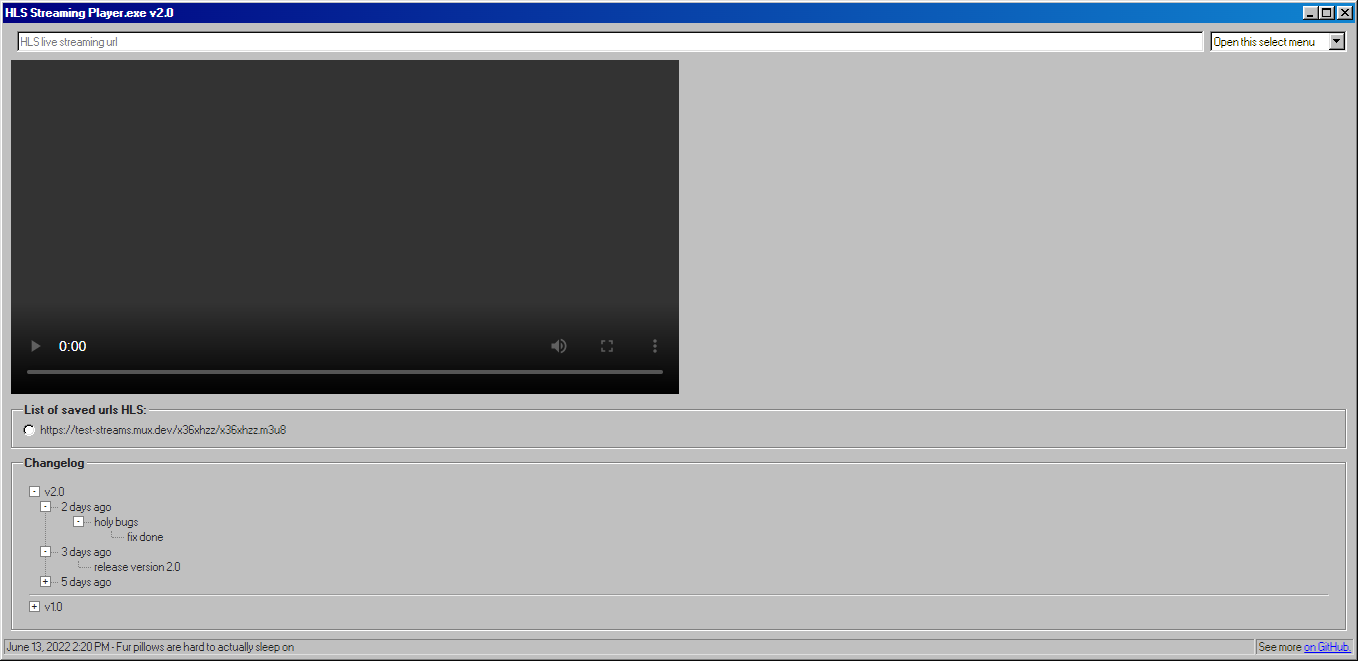
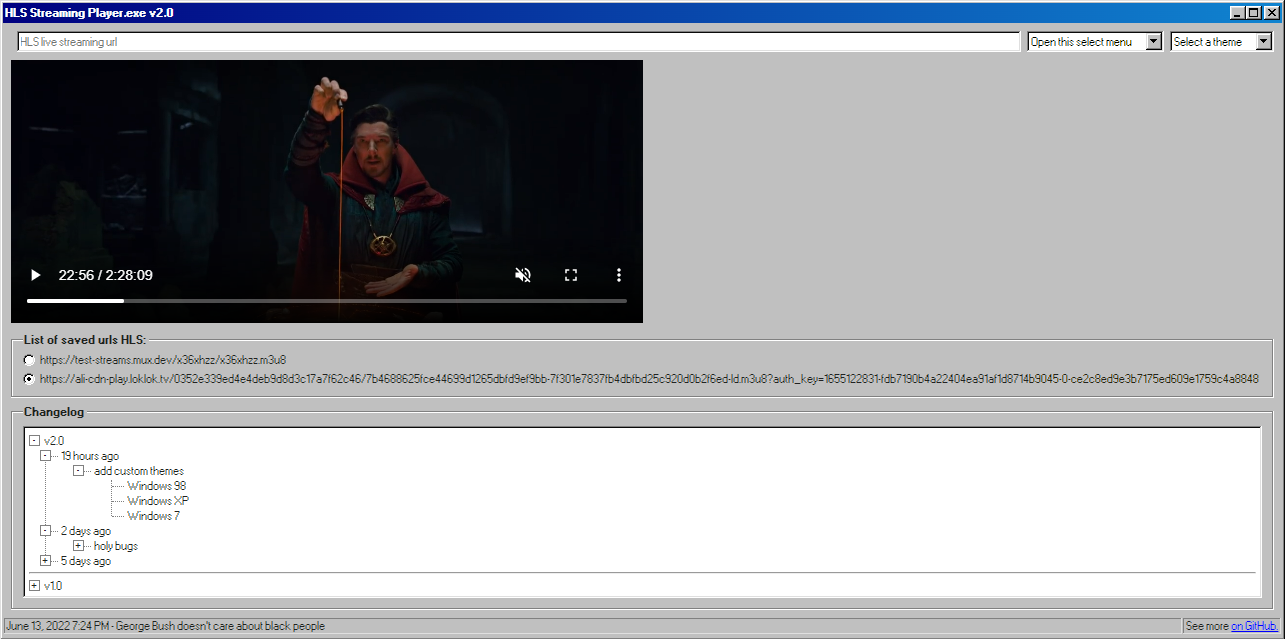
.

diff --git a/js/main.min.js b/js/main.min.js
@@ -1,1 +1,1 @@
-class Main{constructor(){this.default={localStorage:{array:[],key:"HLS url",value:"https://test-streams.mux.dev/x36xhzz/x36xhzz.m3u8"},quote:{KanyeWest:["2024","All you have to be is yourself","Believe in your flyness...conquer your shyness.","Burn that excel spread sheet","Decentralize","Distraction is the enemy of vision","Everything you do in life stems from either fear or love","For me giving up is way harder than trying.","For me, money is not my definition of success. Inspiring people is a definition of success","Fur pillows are hard to actually sleep on","George Bush doesn't care about black people","Have you ever thought you were in love with someone but then realized you were just staring in a mirror for 20 minutes?","I care. I care about everything. Sometimes not giving a f#%k is caring the most.","I feel calm but energized","I feel like I'm too busy writing history to read it.","I feel like me and Taylor might still have sex","I give up drinking every week","I leave my emojis bart Simpson color","I love sleep; it's my favorite.","I make awesome decisions in bike stores!!!","I really love my Tesla. I'm in the future. Thank you Elon.","I still think I am the greatest.","I think I do myself a disservice by comparing myself to Steve Jobs and Walt Disney and human beings that we've seen before. It should be more like Willy Wonka...and welcome to my chocolate factory.","I want the world to be better! All I want is positive! All I want is dopeness!","I wish I had a friend like me","I'd like to meet with Tim Cook. I got some ideas","I'll say things that are serious and put them in a joke form so people can enjoy them. We laugh to keep from crying.","I'm a creative genius","I'm nice at ping pong","I'm the best","If I don't scream, if I don't say something then no one's going to say anything.","If I got any cooler I would freeze to death","If you have the opportunity to play this game of life you need to appreciate every moment. a lot of people don't appreciate the moment until it's passed.","Just stop lying about shit. Just stop lying.","Keep squares out yo circle","Keep your nose out the sky, keep your heart to god, and keep your face to the rising sun.","Let's be like water","Man... whatever happened to my antique fish tank?","My dad got me a drone for Christmas","My greatest award is what I'm about to do.","My greatest pain in life is that I will never be able to see myself perform live.","One day I'm gon' marry a porn star","One of my favorite of many things about what the Trump hat represents to me is that people can't tell me what to do because I'm black","Only free thinkers","People always say that you can't please everybody. I think that's a cop-out. Why not attempt it? Cause think of all the people that you will please if you try.","People always tell you 'Be humble. Be humble.' When was the last time someone told you to be amazing? Be great! Be awesome! Be awesome!","People only get jealous when they care.","Perhaps I should have been more like water today","Pulling up in the may bike","Shut the fuck up I will fucking laser you with alien fucking eyes and explode your fucking head","Sometimes I push the door close button on people running towards the elevator. I just need my own elevator sometimes. My sanctuary.","Sometimes you have to get rid of everything","Style is genderless","The thought police want to suppress freedom of thought","The world is our family","The world is our office","Today is the best day ever and tomorrow's going to be even better","Truth is my goal. Controversy is my gym. I'll do a hundred reps of controversy for a 6 pack of truth","Tweeting is legal and also therapeutic","We all self-conscious. I'm just the first to admit it.","We came into a broken world. And we're the cleanup crew.","You can't look at a glass half full or empty if it's overflowing.","I hate when I'm on a flight and I wake up with a water bottle next to me like oh great now I gotta be responsible for this water bottle","All the musicians will be free","Artists are founders","Buy property","Culture is the most powerful force in humanity under God","Empathy is the glue","I am one of the most famous people on the planet","I am running for President of the United States","I am the head of Adidas. I will bring Adidas and Puma back together and bring me and jay back together","I am Warhol. I am the No. 1 most impactful artist of our generation. I am Shakespeare in the flesh.","I channel Will Ferrell when I'm at the daddy daughter dances","I don't wanna see no woke tweets or hear no woke raps ... it's show time ... it's a whole different energy right now","I hear people say this person is cool and this person is not cool. People are cool. Man has never invented anything as awesome as a an actual person but sometimes we value the objects we create over life itself","I honestly need all my Royeres to be museum quality... if I see a fake Royere Ima have to Rick James your couch","I love UZI. I be saying the same thing about Steve Jobs. I be feeling just like UZI","I need an army of angels to cover me while I pull this sword out of the stone","I spoke to Dave Chapelle for two hours this morning. He is our modern day Socrates","I was just speaking with someone that told me their life story and they used to be homeless.","I watch Bladerunner on repeat","I'm giving all Good music artists back the 50% share I have of their masters","I'm going to personally see to it that Taylor Swift gets her masters back. Scooter is a close family friend","I'm the new Moses","Life is the ultimate gift","Ma$e is one of my favorite rappers and I based a lot of my flows off of him","Manga all day","My first pillar when I'm on the board of adidas will be an adidas Nike collaboration to support community growth","My mama was a' English teacher. I know how to use correct English but sometimes I just don't feel like it aaaand I ain't got to","My memories are from the future","My mother in law Kris Jenner ... makes the best music playlist","People say it's enough and I got my point across ... the point isn't across until we cross the point","People tried to talk me out of running for President. Never let weak controlling people kill your spirit","So many of us need so much less than we have especially when so many of us are in need","Speak God's truth to power","The media tries to kill our heroes one at a time","The world needs more Joy... this idea is super fresh","There are 5 main pillars in a professional musicians business - Recording, Publishing, Touring, Merchandise & Name and likeness","There are people sleeping in parking lots","There's a crying need for civility across the board. We need to and will come together in the name of Jesus.","There's so many lonely emojis man","Trust me ... I won't stop","Two years ago we had 50 million people subscribed to music streaming services around the world. Today we have 400 million.","We are here to complete the revolution. We are building the future","We as a people will heal. We will insure the well being of each other","We have to evolve","We must and will cure homelessness and hunger. We have the capability as a species","We must form a union. We must unify","We used to diss Michael Jackson the media made us call him crazy ... then they killed him","We will be recognized","We will change the paradigm","We will cure hunger","We will heal. We will cure.","We're going to move the entire music industry into the 21st Century","We've gotten comfortable with not having what we deserve","Who made up the term major label in the first place???","Winning is the only option","For me to say I wasn't a genius I'd just be lying to you and to myself","I've known my mom since I was zero years old. She is quite dope.","I don't expect to be understood at all.","I'm on the pursuit of awesomeness, excellence is the bare minimum.","You basically can say anything to someone on an email or text as long as you put LOL at the end."]}}}_get__Random(e){return e[Math.floor(Math.random()*e.length)]}_uniq=e=>[...new Set(e)];_validator__URL=e=>validator.isURL(e)&&!validator.isEmail(e)&&!validator.isEmpty(e);_innerText__byId=(e,t)=>document.getElementById(e).innerText=t;_innerText__byId__2=(e,t)=>document.getElementById(e).innerText+=t;_get__inputValue__byId=e=>document.getElementById(e).value;_add__ArrayTo_localStorage=e=>{this.default.localStorage.array.push(e),localStorage.setItem(this.default.localStorage.key,JSON.stringify(this._uniq(this.default.localStorage.array)))};_get__Data__localStorage=()=>{if(null!==localStorage.getItem(this.default.localStorage.key))return this.default.localStorage.array=JSON.parse(localStorage.getItem(this.default.localStorage.key));this._add__ArrayTo_localStorage(this.default.localStorage.value)};_inputValue__onChange=()=>{document.getElementById("text17").addEventListener("change",(()=>{this._validator__URL(this._get__inputValue__byId("text17"))&&(this._add__ArrayTo_localStorage(this._get__inputValue__byId("text17")),this._HLS__player(this._get__inputValue__byId("text17")),this._modify__HTML__2())}))};_inputTypeRadio__onChange=()=>{for(const e of document.querySelectorAll('input[name="fieldset-example2"]'))e.addEventListener("change",(()=>{this._HLS__player(e.value)}))};_modify__HTML=()=>{for(const e of document.querySelectorAll("a"))e.setAttribute("rel","noopener noreferrer"),e.setAttribute("target","_blank");for(const e of document.querySelectorAll("#momen1"))e.innerHTML=moment(e.title.replaceAll("/",""),"DDMMYYYY").fromNow();for(let e=0;e<4;e++)document.getElementsByTagName("details").item(e).setAttribute("open","")};_modify__HTML__2=()=>{this._get__Data__localStorage();for(const e of document.querySelectorAll(".radio-1"))e.remove();for(const e of this.default.localStorage.array)document.getElementById("_div__inputRadio").innerHTML+=` <div class="field-row radio-1">\n      <input\n        id=${this.default.localStorage.array.indexOf(e)}\n        type="radio"\n        name="fieldset-example2"\n        value="${e}"\n      />\n      <label for=${this.default.localStorage.array.indexOf(e)}>${e}</label>\n    </div>`;this._inputTypeRadio__onChange()};_modify__HTML__3=()=>{this._innerText__byId("notification",`${moment().format("LLL")} - ${this._get__Random(this.default.quote.KanyeWest)}`)};_Menu=()=>{"1"==document.getElementById("menu1").value?document.pictureInPictureElement?document.exitPictureInPicture():document.pictureInPictureEnabled&&document.getElementById("video1").requestPictureInPicture():"2"==document.getElementById("menu1").value&&(localStorage.clear(),document.location.reload(!0))};_98__CSS=()=>{document.getElementById("theme-stylesheet").setAttribute("href","css/98.css/98.min.css")};_XP__CSS=()=>{document.getElementById("theme-stylesheet").setAttribute("href","css/XP.css/XP.min.css")};_7__CSS=()=>{document.getElementById("theme-stylesheet").setAttribute("href","css/7.css/7.min.css")};_Menu__2(){"98.css"==document.getElementById("menu2").value?(this._98__CSS(),localStorage.setItem("theme","98")):"XP.css"==document.getElementById("menu2").value?(this._XP__CSS(),localStorage.setItem("theme","XP")):"7.css"==document.getElementById("menu2").value&&(this._7__CSS(),localStorage.setItem("theme","7"))}_check_themeSwitched=()=>{null===localStorage.getItem("theme")?localStorage.setItem("theme","98"):"98"===localStorage.getItem("theme")?this._98__CSS():"XP"===localStorage.getItem("theme")?this._XP__CSS():"7"===localStorage.getItem("theme")&&this._7__CSS()};_HLS__player=e=>{this._modify__HTML__3();var t=document.getElementById("video1");if(Hls.isSupported()){var a=new Hls({autoStartLoad:!0,startPosition:-1,debug:!1,capLevelOnFPSDrop:!1,capLevelToPlayerSize:!1,defaultAudioCodec:void 0,initialLiveManifestSize:1,maxBufferLength:60,maxMaxBufferLength:600,backBufferLength:1/0,maxBufferSize:362880,maxBufferHole:.5,highBufferWatchdogPeriod:2,nudgeOffset:.1,nudgeMaxRetry:3,maxFragLookUpTolerance:.25,liveSyncDurationCount:3,liveMaxLatencyDurationCount:1/0,liveDurationInfinity:!1,enableWorker:!0,enableSoftwareAES:!0,manifestLoadingTimeOut:1e4,manifestLoadingMaxRetry:1,manifestLoadingRetryDelay:1e3,manifestLoadingMaxRetryTimeout:64e3,startLevel:void 0,levelLoadingTimeOut:1e4,levelLoadingMaxRetry:4,levelLoadingRetryDelay:1e3,levelLoadingMaxRetryTimeout:64e3,fragLoadingTimeOut:2e4,fragLoadingMaxRetry:6,fragLoadingRetryDelay:1e3,fragLoadingMaxRetryTimeout:64e3,startFragPrefetch:!1,testBandwidth:!0,progressive:!1,lowLatencyMode:!0,fpsDroppedMonitoringPeriod:5e3,fpsDroppedMonitoringThreshold:.2,appendErrorMaxRetry:3,enableWebVTT:!0,enableIMSC1:!0,enableCEA708Captions:!0,stretchShortVideoTrack:!1,maxAudioFramesDrift:1,forceKeyFrameOnDiscontinuity:!0,abrEwmaFastLive:3,abrEwmaSlowLive:9,abrEwmaFastVoD:3,abrEwmaSlowVoD:9,abrEwmaDefaultEstimate:5e5,abrBandWidthFactor:.95,abrBandWidthUpFactor:.7,abrMaxWithRealBitrate:!1,maxStarvationDelay:4,maxLoadingDelay:4,minAutoBitrate:0,emeEnabled:!1,widevineLicenseUrl:void 0,licenseXhrSetup:void 0,drmSystemOptions:{},cmcd:void 0});a.loadSource(e),a.attachMedia(t),a.on(Hls.Events.MEDIA_ATTACHED,(()=>{t.muted=!0,t.play()}))}else t.canPlayType("application/vnd.apple.mpegurl")&&(t.src=e,t.addEventListener("canplay",(()=>{t.play()})))}}const main=new Main;window.onload=()=>{main._check_themeSwitched(),main._innerText__byId__2("title",` ${document.getElementsByTagName("summary").item(0).textContent}`),main._modify__HTML(),main._modify__HTML__2(),main._modify__HTML__3(),main._inputValue__onChange()};
+class Main{constructor(){this.default={localStorage:{array:[],key:"HLS url",value:"https://test-streams.mux.dev/x36xhzz/x36xhzz.m3u8"},quote:{KanyeWest:["2024","All you have to be is yourself","Believe in your flyness...conquer your shyness.","Burn that excel spread sheet","Decentralize","Distraction is the enemy of vision","Everything you do in life stems from either fear or love","For me giving up is way harder than trying.","For me, money is not my definition of success. Inspiring people is a definition of success","Fur pillows are hard to actually sleep on","George Bush doesn't care about black people","Have you ever thought you were in love with someone but then realized you were just staring in a mirror for 20 minutes?","I care. I care about everything. Sometimes not giving a f#%k is caring the most.","I feel calm but energized","I feel like I'm too busy writing history to read it.","I feel like me and Taylor might still have sex","I give up drinking every week","I leave my emojis bart Simpson color","I love sleep; it's my favorite.","I make awesome decisions in bike stores!!!","I really love my Tesla. I'm in the future. Thank you Elon.","I still think I am the greatest.","I think I do myself a disservice by comparing myself to Steve Jobs and Walt Disney and human beings that we've seen before. It should be more like Willy Wonka...and welcome to my chocolate factory.","I want the world to be better! All I want is positive! All I want is dopeness!","I wish I had a friend like me","I'd like to meet with Tim Cook. I got some ideas","I'll say things that are serious and put them in a joke form so people can enjoy them. We laugh to keep from crying.","I'm a creative genius","I'm nice at ping pong","I'm the best","If I don't scream, if I don't say something then no one's going to say anything.","If I got any cooler I would freeze to death","If you have the opportunity to play this game of life you need to appreciate every moment. a lot of people don't appreciate the moment until it's passed.","Just stop lying about shit. Just stop lying.","Keep squares out yo circle","Keep your nose out the sky, keep your heart to god, and keep your face to the rising sun.","Let's be like water","Man... whatever happened to my antique fish tank?","My dad got me a drone for Christmas","My greatest award is what I'm about to do.","My greatest pain in life is that I will never be able to see myself perform live.","One day I'm gon' marry a porn star","One of my favorite of many things about what the Trump hat represents to me is that people can't tell me what to do because I'm black","Only free thinkers","People always say that you can't please everybody. I think that's a cop-out. Why not attempt it? Cause think of all the people that you will please if you try.","People always tell you 'Be humble. Be humble.' When was the last time someone told you to be amazing? Be great! Be awesome! Be awesome!","People only get jealous when they care.","Perhaps I should have been more like water today","Pulling up in the may bike","Shut the fuck up I will fucking laser you with alien fucking eyes and explode your fucking head","Sometimes I push the door close button on people running towards the elevator. I just need my own elevator sometimes. My sanctuary.","Sometimes you have to get rid of everything","Style is genderless","The thought police want to suppress freedom of thought","The world is our family","The world is our office","Today is the best day ever and tomorrow's going to be even better","Truth is my goal. Controversy is my gym. I'll do a hundred reps of controversy for a 6 pack of truth","Tweeting is legal and also therapeutic","We all self-conscious. I'm just the first to admit it.","We came into a broken world. And we're the cleanup crew.","You can't look at a glass half full or empty if it's overflowing.","I hate when I'm on a flight and I wake up with a water bottle next to me like oh great now I gotta be responsible for this water bottle","All the musicians will be free","Artists are founders","Buy property","Culture is the most powerful force in humanity under God","Empathy is the glue","I am one of the most famous people on the planet","I am running for President of the United States","I am the head of Adidas. I will bring Adidas and Puma back together and bring me and jay back together","I am Warhol. I am the No. 1 most impactful artist of our generation. I am Shakespeare in the flesh.","I channel Will Ferrell when I'm at the daddy daughter dances","I don't wanna see no woke tweets or hear no woke raps ... it's show time ... it's a whole different energy right now","I hear people say this person is cool and this person is not cool. People are cool. Man has never invented anything as awesome as a an actual person but sometimes we value the objects we create over life itself","I honestly need all my Royeres to be museum quality... if I see a fake Royere Ima have to Rick James your couch","I love UZI. I be saying the same thing about Steve Jobs. I be feeling just like UZI","I need an army of angels to cover me while I pull this sword out of the stone","I spoke to Dave Chapelle for two hours this morning. He is our modern day Socrates","I was just speaking with someone that told me their life story and they used to be homeless.","I watch Bladerunner on repeat","I'm giving all Good music artists back the 50% share I have of their masters","I'm going to personally see to it that Taylor Swift gets her masters back. Scooter is a close family friend","I'm the new Moses","Life is the ultimate gift","Ma$e is one of my favorite rappers and I based a lot of my flows off of him","Manga all day","My first pillar when I'm on the board of adidas will be an adidas Nike collaboration to support community growth","My mama was a' English teacher. I know how to use correct English but sometimes I just don't feel like it aaaand I ain't got to","My memories are from the future","My mother in law Kris Jenner ... makes the best music playlist","People say it's enough and I got my point across ... the point isn't across until we cross the point","People tried to talk me out of running for President. Never let weak controlling people kill your spirit","So many of us need so much less than we have especially when so many of us are in need","Speak God's truth to power","The media tries to kill our heroes one at a time","The world needs more Joy... this idea is super fresh","There are 5 main pillars in a professional musicians business - Recording, Publishing, Touring, Merchandise & Name and likeness","There are people sleeping in parking lots","There's a crying need for civility across the board. We need to and will come together in the name of Jesus.","There's so many lonely emojis man","Trust me ... I won't stop","Two years ago we had 50 million people subscribed to music streaming services around the world. Today we have 400 million.","We are here to complete the revolution. We are building the future","We as a people will heal. We will insure the well being of each other","We have to evolve","We must and will cure homelessness and hunger. We have the capability as a species","We must form a union. We must unify","We used to diss Michael Jackson the media made us call him crazy ... then they killed him","We will be recognized","We will change the paradigm","We will cure hunger","We will heal. We will cure.","We're going to move the entire music industry into the 21st Century","We've gotten comfortable with not having what we deserve","Who made up the term major label in the first place???","Winning is the only option","For me to say I wasn't a genius I'd just be lying to you and to myself","I've known my mom since I was zero years old. She is quite dope.","I don't expect to be understood at all.","I'm on the pursuit of awesomeness, excellence is the bare minimum.","You basically can say anything to someone on an email or text as long as you put LOL at the end."]}}}_get__Random(e){return e[Math.floor(Math.random()*e.length)]}_uniq=e=>[...new Set(e)];_validator__URL=e=>validator.isURL(e)&&!validator.isEmail(e)&&!validator.isEmpty(e);_innerText__byId=(e,t)=>document.getElementById(e).innerText=t;_innerText__byId__2=(e,t)=>document.getElementById(e).innerText+=t;_get__inputValue__byId=e=>document.getElementById(e).value;_add__ArrayTo_localStorage=e=>{this.default.localStorage.array.push(e),localStorage.setItem(this.default.localStorage.key,JSON.stringify(this._uniq(this.default.localStorage.array)))};_get__Data__localStorage=()=>{if(null!==localStorage.getItem(this.default.localStorage.key))return this.default.localStorage.array=JSON.parse(localStorage.getItem(this.default.localStorage.key));this._add__ArrayTo_localStorage(this.default.localStorage.value)};_inputValue__onChange=()=>{document.getElementById("text17").addEventListener("change",(()=>{this._validator__URL(this._get__inputValue__byId("text17"))&&(this._add__ArrayTo_localStorage(this._get__inputValue__byId("text17")),this._HLS__player(this._get__inputValue__byId("text17")),this._modify__HTML__2())}))};_inputTypeRadio__onChange=()=>{for(const e of document.querySelectorAll('input[name="fieldset-example2"]'))e.addEventListener("change",(()=>{this._HLS__player(e.value)}))};_modify__HTML=()=>{for(const e of document.querySelectorAll("a"))e.setAttribute("rel","noopener noreferrer"),e.setAttribute("target","_blank");for(const e of document.querySelectorAll("#momen1"))e.innerHTML=moment(e.title.replaceAll("/",""),"DDMMYYYY").fromNow();for(let e=0;e<4;e++)document.getElementsByTagName("details").item(e).setAttribute("open","")};_modify__HTML__2=()=>{this._get__Data__localStorage();for(const e of document.querySelectorAll(".radio-1"))e.remove();for(const e of this.default.localStorage.array)document.getElementById("_div__inputRadio").innerHTML+=` <div class="field-row radio-1">\n      <input\n        id=${this.default.localStorage.array.indexOf(e)}\n        type="radio"\n        name="fieldset-example2"\n        value="${e}"\n      />\n      <label for=${this.default.localStorage.array.indexOf(e)}>${e}</label>\n    </div>`;this._inputTypeRadio__onChange()};_modify__HTML__3=()=>{this._innerText__byId("notification",`${moment().format("LLL")} - ${this._get__Random(this.default.quote.KanyeWest)}`)};_Menu=()=>{"1"==document.getElementById("menu1").value?document.pictureInPictureElement?document.exitPictureInPicture():document.pictureInPictureEnabled&&document.getElementById("video1").requestPictureInPicture():"2"==document.getElementById("menu1").value&&(localStorage.clear(),document.location.reload(!0))};_98__CSS=()=>{document.getElementById("theme-stylesheet").setAttribute("href","css/98.css/98.min.css?v=0.1.18")};_XP__CSS=()=>{document.getElementById("theme-stylesheet").setAttribute("href","css/XP.css/XP.min.css?v=0.3.0")};_7__CSS=()=>{document.getElementById("theme-stylesheet").setAttribute("href","css/7.css/7.min.css?v=0.7.0")};_Menu__2(){"98.css"==document.getElementById("menu2").value?(this._98__CSS(),localStorage.setItem("theme","98")):"XP.css"==document.getElementById("menu2").value?(this._XP__CSS(),localStorage.setItem("theme","XP")):"7.css"==document.getElementById("menu2").value&&(this._7__CSS(),localStorage.setItem("theme","7"))}_check_themeSwitched=()=>{null===localStorage.getItem("theme")?localStorage.setItem("theme","98"):"98"===localStorage.getItem("theme")?this._98__CSS():"XP"===localStorage.getItem("theme")?this._XP__CSS():"7"===localStorage.getItem("theme")&&this._7__CSS()};_HLS__player=e=>{this._modify__HTML__3();var t=document.getElementById("video1");if(Hls.isSupported()){var a=new Hls({autoStartLoad:!0,startPosition:-1,debug:!1,capLevelOnFPSDrop:!1,capLevelToPlayerSize:!1,defaultAudioCodec:void 0,initialLiveManifestSize:1,maxBufferLength:60,maxMaxBufferLength:600,backBufferLength:1/0,maxBufferSize:362880,maxBufferHole:.5,highBufferWatchdogPeriod:2,nudgeOffset:.1,nudgeMaxRetry:3,maxFragLookUpTolerance:.25,liveSyncDurationCount:3,liveMaxLatencyDurationCount:1/0,liveDurationInfinity:!1,enableWorker:!0,enableSoftwareAES:!0,manifestLoadingTimeOut:1e4,manifestLoadingMaxRetry:1,manifestLoadingRetryDelay:1e3,manifestLoadingMaxRetryTimeout:64e3,startLevel:void 0,levelLoadingTimeOut:1e4,levelLoadingMaxRetry:4,levelLoadingRetryDelay:1e3,levelLoadingMaxRetryTimeout:64e3,fragLoadingTimeOut:2e4,fragLoadingMaxRetry:6,fragLoadingRetryDelay:1e3,fragLoadingMaxRetryTimeout:64e3,startFragPrefetch:!1,testBandwidth:!0,progressive:!1,lowLatencyMode:!0,fpsDroppedMonitoringPeriod:5e3,fpsDroppedMonitoringThreshold:.2,appendErrorMaxRetry:3,enableWebVTT:!0,enableIMSC1:!0,enableCEA708Captions:!0,stretchShortVideoTrack:!1,maxAudioFramesDrift:1,forceKeyFrameOnDiscontinuity:!0,abrEwmaFastLive:3,abrEwmaSlowLive:9,abrEwmaFastVoD:3,abrEwmaSlowVoD:9,abrEwmaDefaultEstimate:5e5,abrBandWidthFactor:.95,abrBandWidthUpFactor:.7,abrMaxWithRealBitrate:!1,maxStarvationDelay:4,maxLoadingDelay:4,minAutoBitrate:0,emeEnabled:!1,widevineLicenseUrl:void 0,licenseXhrSetup:void 0,drmSystemOptions:{},cmcd:void 0});a.loadSource(e),a.attachMedia(t),a.on(Hls.Events.MEDIA_ATTACHED,(()=>{t.muted=!0,t.play()}))}else t.canPlayType("application/vnd.apple.mpegurl")&&(t.src=e,t.addEventListener("canplay",(()=>{t.play()})))}}const main=new Main;window.onload=()=>{main._check_themeSwitched(),main._innerText__byId__2("title",` ${document.getElementsByTagName("summary").item(0).textContent}`),main._modify__HTML(),main._modify__HTML__2(),main._modify__HTML__3(),main._inputValue__onChange()};

diff --git a/index.html b/index.html
@@ -6,7 +6,11 @@
     <meta name="viewport" content="width=device-width, initial-scale=1.0" />
     <meta name="description" content="HLS Streaming Player" />
     <link rel="stylesheet" href="css/main.css" />
-    <link id="theme-stylesheet" rel="stylesheet" href="css/98.css/98.min.css" />
+    <link
+      id="theme-stylesheet"
+      rel="stylesheet"
+      href="css/98.css/98.min.css?v=0.1.18"
+    />
     <link rel="stylesheet" href="css/pokey.min.css?v=1.0.1" />
     <title>HLS Streaming Player.exe v2.0</title>
   </head>
@@ -96,16 +100,9 @@
                     </li>
                     <li>
                       <details>
-                        <summary title="11/06/2022" id="momen1"></summary>
-                        <ul>
-                          <li>release version 2.0</li>
-                        </ul>
-                      </details>
-                    </li>
-                    <li>
-                      <details>
                         <summary title="09/06/2022" id="momen1"></summary>
                         <ul>
+                          <li>release version 2.0</li>
                           <li>hello "98.css"</li>
                         </ul>
                       </details>
@@ -122,9 +119,17 @@
                         <ul>
                           <li>
                             <details>
-                              <summary>goodbye "Bootstrap"</summary>
+                              <summary>goodbye</summary>
                               <ul>
-                                <li>hehe</li>
+                                <li>version 1.0</li>
+                                <li>
+                                  <details>
+                                    <summary>Bootstrap</summary>
+                                    <ul>
+                                      <li>hehe</li>
+                                    </ul>
+                                  </details>
+                                </li>
                               </ul>
                             </details>
                           </li>

diff --git a/js/main.js b/js/main.js
@@ -275,19 +275,19 @@ class Main {
   _98__CSS = () => {
     document
       .getElementById("theme-stylesheet")
-      .setAttribute("href", "css/98.css/98.min.css");
+      .setAttribute("href", "css/98.css/98.min.css?v=0.1.18");
   };
 
   _XP__CSS = () => {
     document
       .getElementById("theme-stylesheet")
-      .setAttribute("href", "css/XP.css/XP.min.css");
+      .setAttribute("href", "css/XP.css/XP.min.css?v=0.3.0");
   };
 
   _7__CSS = () => {
     document
       .getElementById("theme-stylesheet")
-      .setAttribute("href", "css/7.css/7.min.css");
+      .setAttribute("href", "css/7.css/7.min.css?v=0.7.0");
   };
 
   _Menu__2() {

diff --git a/css/main.css b/css/main.css
@@ -3,7 +3,7 @@ body {
   padding: 0;
   overflow-y: scroll; */
   height: 100vh;
-  /* width: 100vw; */
+  width: 100vw;
 }
 
 main {

diff --git a/README.md b/README.md
@@ -3,6 +3,8 @@
 ### Screenshot
 
 ![0](img/screenshot/0.png)
+_image_caption_
+
 ![1](img/screenshot/1.png)
 ![2](img/screenshot/2.png)
 
